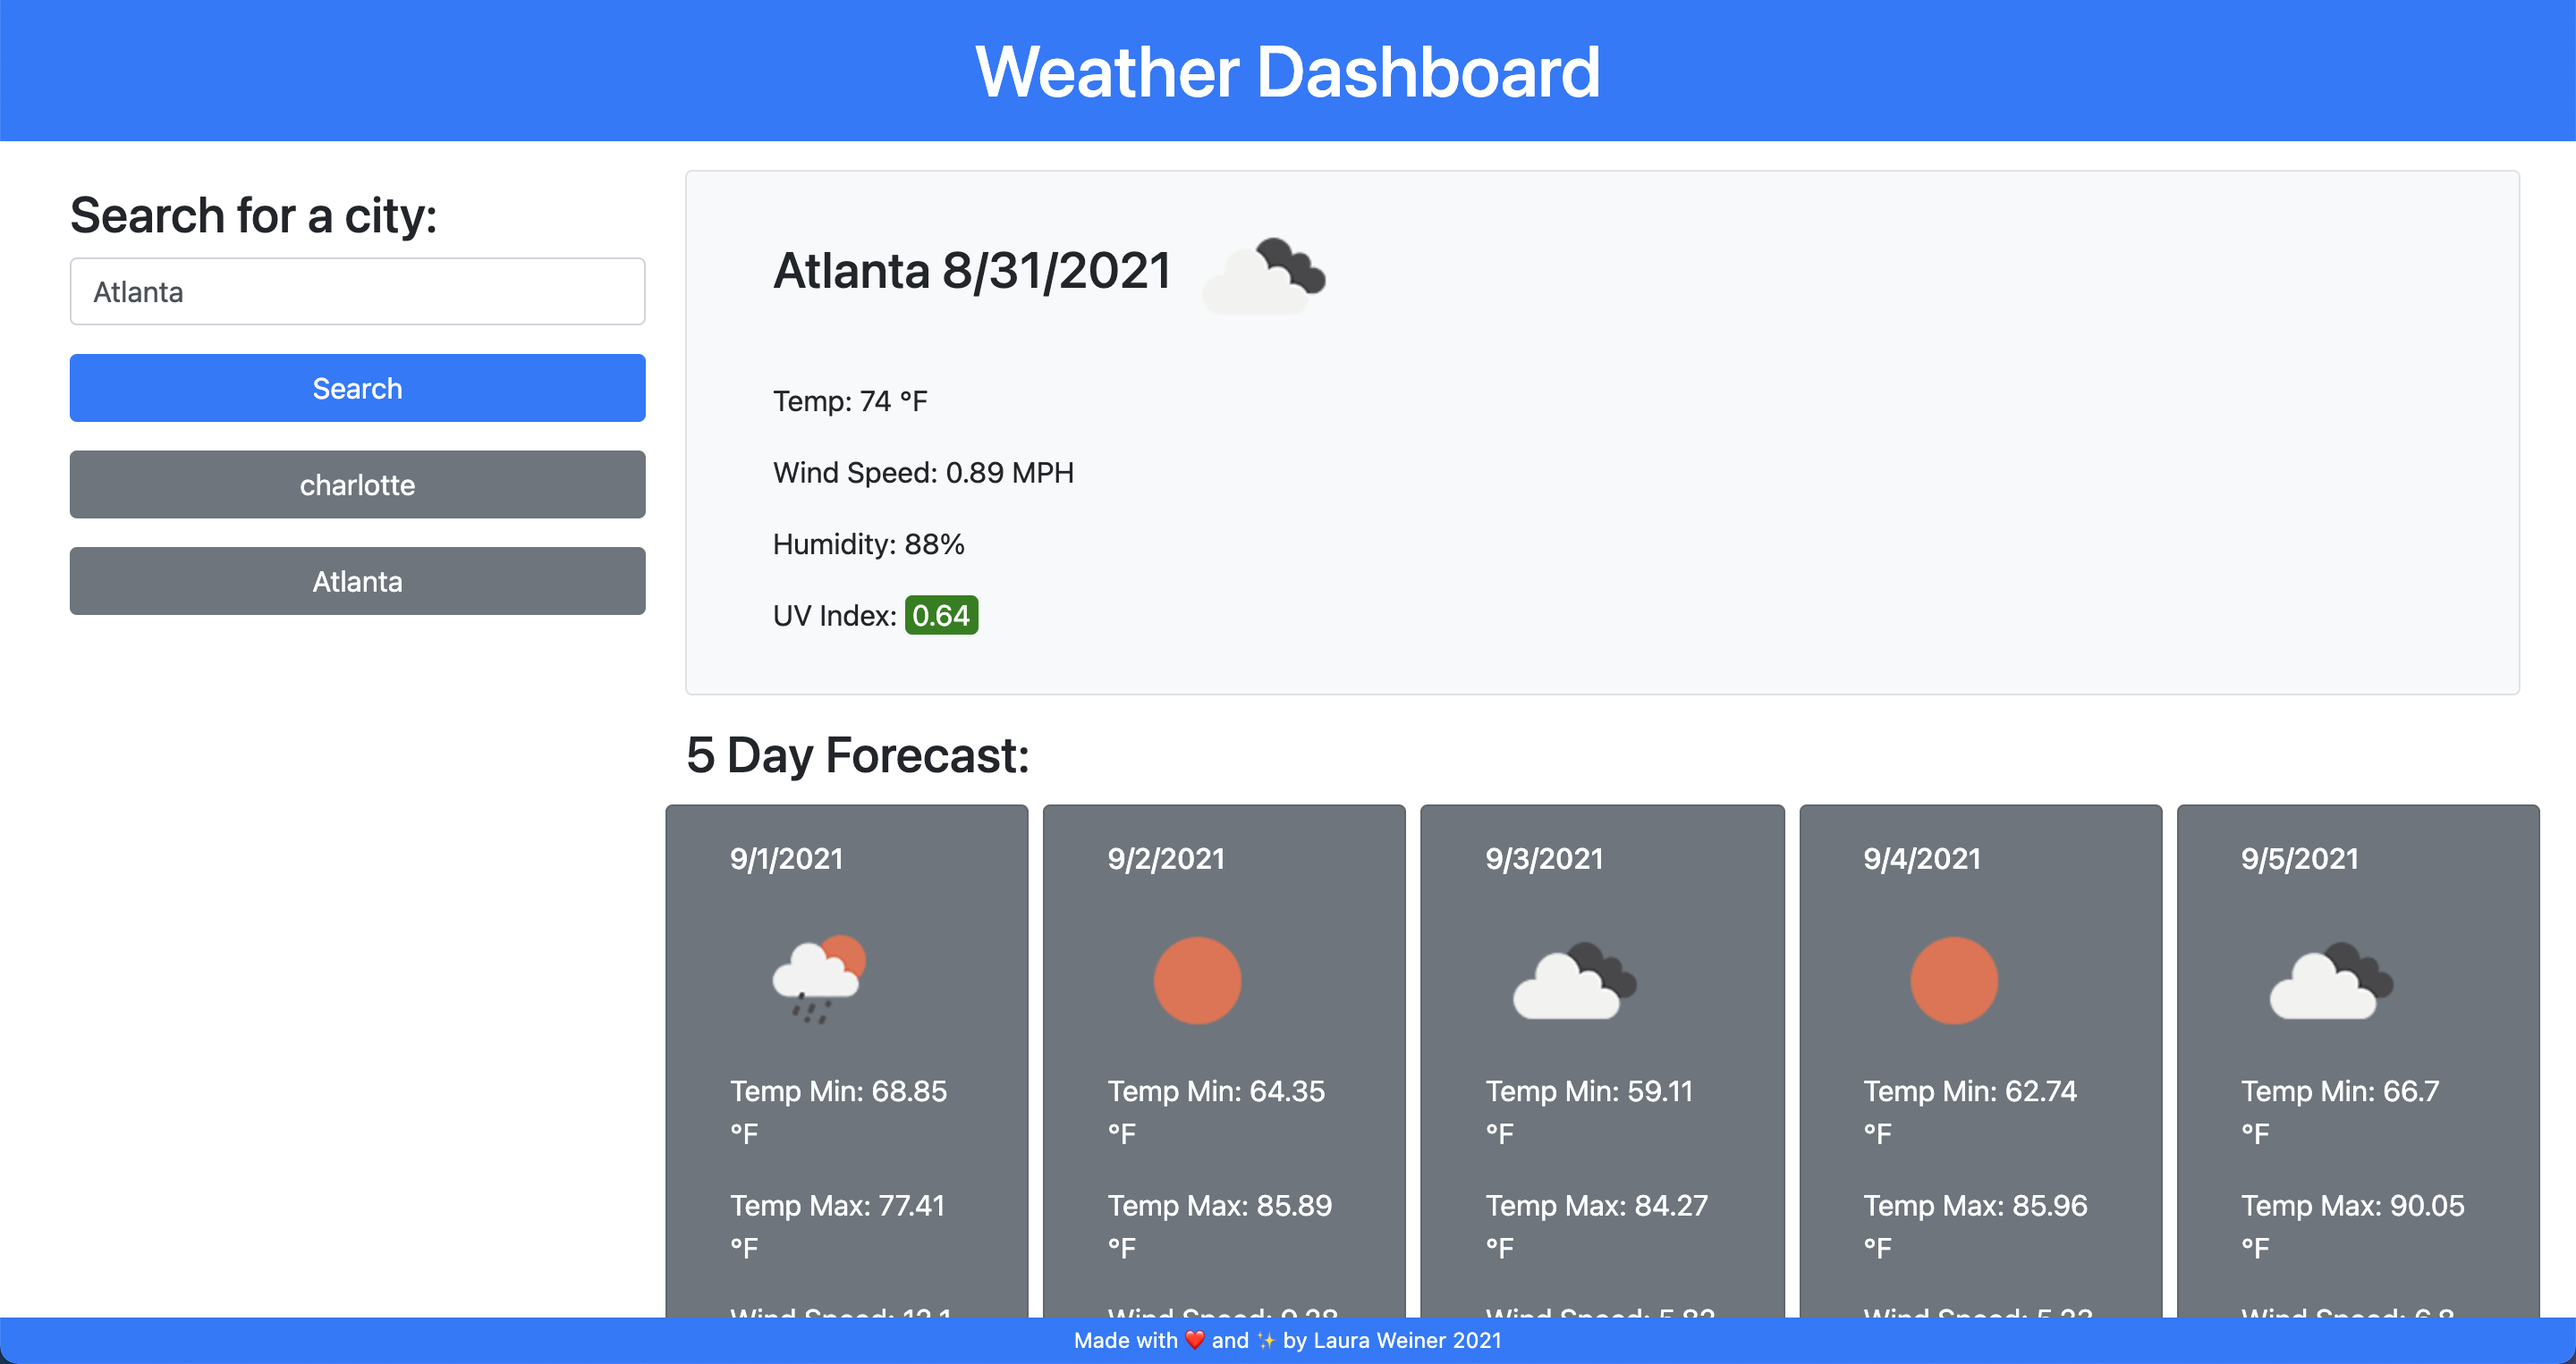
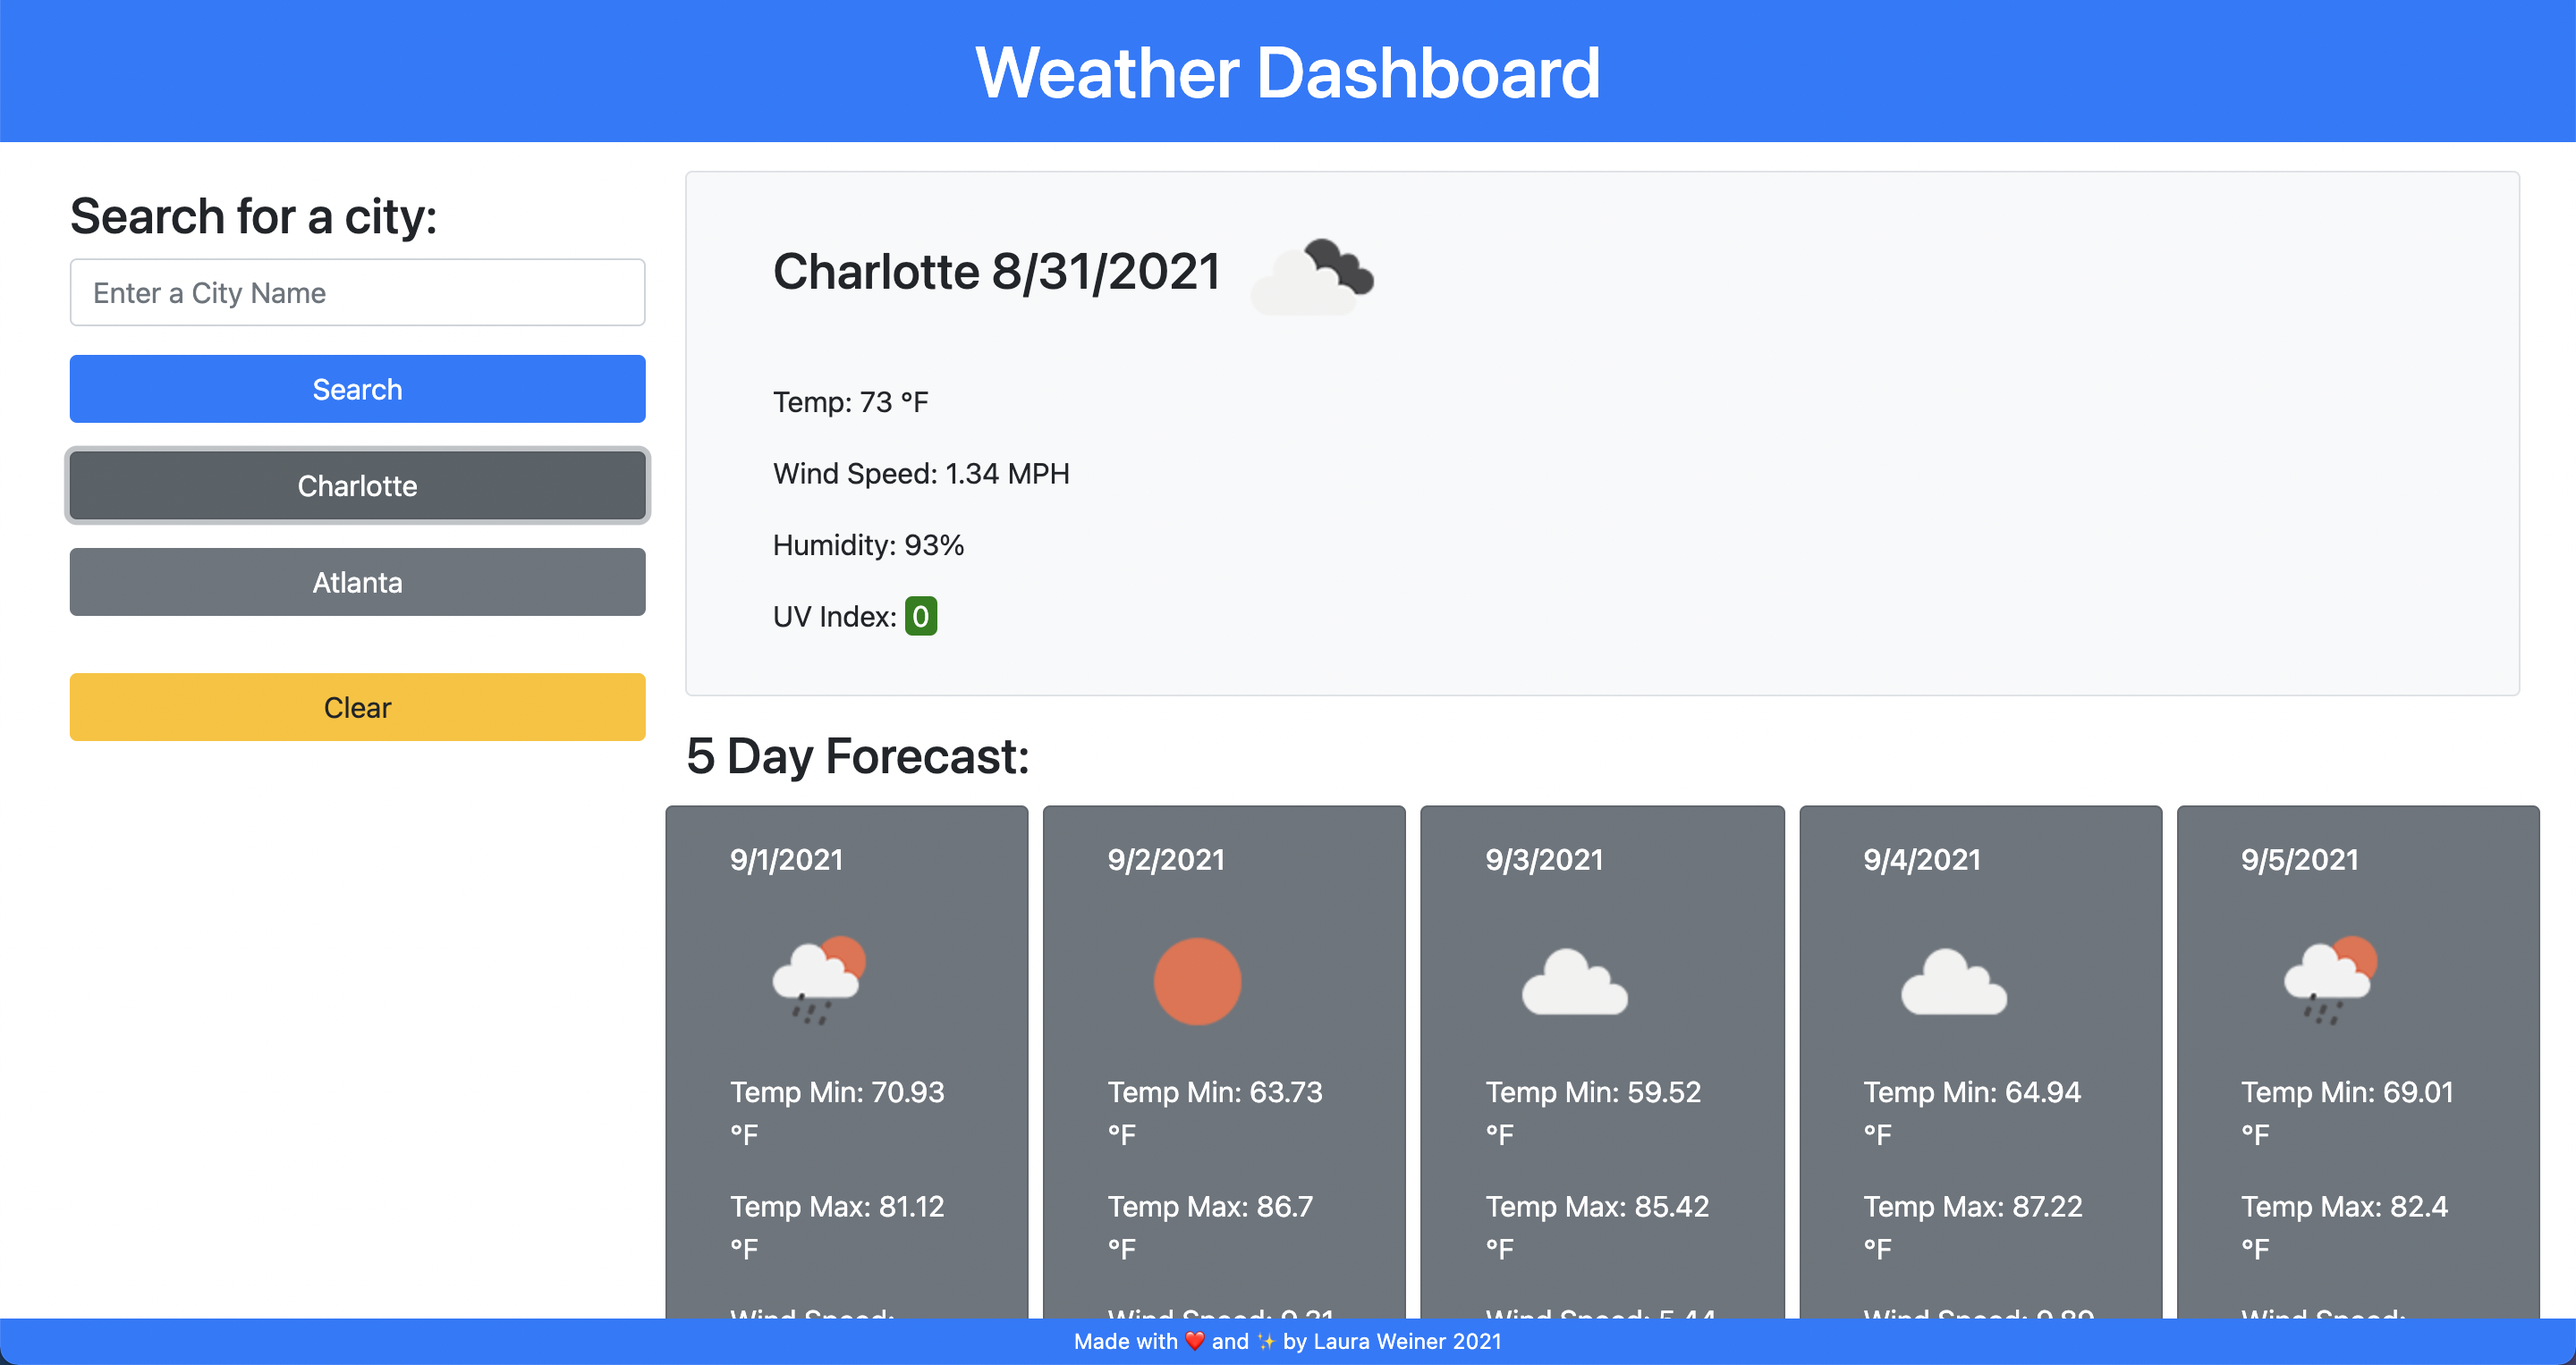
Created localStoarge function that allows recent search buttons to run new forecast. Updated README image.

diff --git a/assets/js/script.js b/assets/js/script.js
@@ -8,12 +8,27 @@ var currentWind = document.getElementById("currentWind");
 var currentHum = document.getElementById("currentHum");
 var currentUV = document.getElementById("currentUV");
 var fiveDay = document.querySelectorAll(".fiveDay");
-var recentHistory = JSON.parse(localStorage.getItem("search")) || [];
+var lastSearch;
 
-function forcast() {
+if (localStorage.getItem("search")){
+    lastSearch = localStorage.getItem("search").split(",")
+} else {
+    lastSearch=[];
+}
+
+function forcast(cityName) {
+    
     var cityName = searchedCity.value.trim();
     var currentURL = "https://api.openweathermap.org/data/2.5/weather?q=" + cityName + "&appid=" + APIKey;
    
+    localStorage.setItem("search", lastSearch);
+    console.log(lastSearch);
+
+    if(!lastSearch.includes(cityName)) {
+        lastSearch.push(cityName);
+    }
+    
+    
     var buttonEl = document.createElement("button");
     buttonEl.textContent = cityName;
     buttonEl.setAttribute("class", "btn btn-secondary w-100 m-2");
@@ -69,12 +84,13 @@ function forcast() {
             
             for (var i=0; i<5; i++) {
                 var day = dailyData[i];
+                console.log(fiveDay[i]);
 
+                var dateEl = document.createElement("h6");
                 var newDate = new Date(day.dt*1000);
                 var month = newDate.getMonth()+1;
                 var weekDay = newDate.getDate();
                 var year = newDate.getFullYear();
-                var dateEl = document.createElement("h6");
                 dateEl.textContent = month + "/" + weekDay + "/" + year;
                 fiveDay[i].appendChild(dateEl);
 
@@ -84,7 +100,7 @@ function forcast() {
                 fiveDay[i].appendChild(iconEl);
                 
                 var tempMinEl = document.createElement("p");
-                tempMinEl.textContent = "Temp Min: " + day.temp.min + " °F";
+                tempMinEl.textContent = "Temp Min: " + day.temp.min + " °F"
                 fiveDay[i].appendChild(tempMinEl);
 
                 var tempMaxEl = document.createElement("p");
@@ -99,13 +115,130 @@ function forcast() {
                 humEl.textContent = "Wind Speed: " + day.humidity + "%";
                 fiveDay[i].appendChild(humEl);
             }
-
+            
         });
     });
-
+    
 }
+
+// function clearFiveDay(){
+//     while (fiveDay.dateEl) {
+//         fiveDay.removeChild(dateEl);
+// }}
 
 searchBtn.addEventListener("click", function (event) {
     event.preventDefault();
     forcast();
+
 });
+
+recentSearch.addEventListener("click", function(event){
+    event.preventDefault();
+    
+    var cityName = event.target.innerText;
+
+    if(!lastSearch.includes(cityName)) {
+        lastSearch.push(cityName);
+    }
+
+    var currentURL = "https://api.openweathermap.org/data/2.5/weather?q=" + cityName + "&appid=" + APIKey;
+   
+    localStorage.setItem("search", lastSearch);
+    console.log(lastSearch);
+    
+    fetch(currentURL)
+    .then(function (response) {
+        return response.json();
+    })
+    .then(function (data) {
+
+        var currentDate = new Date(data.dt*1000);
+        var currentMonth = currentDate.getMonth()+1;
+        var currentDay = currentDate.getDate();
+        var currentYear = currentDate.getFullYear();
+        var currentPic = document.createElement("img");
+        var currentFTemp = Math.floor(((data.main.temp - 273.15) * 9 / 5) + 32);
+        
+        cityMain.textContent = data.name + " " + currentMonth + "/" + currentDay + "/" + currentYear;
+        currentPic.alt = data.weather[0].icon;
+        currentPic.src = "http://openweathermap.org/img/wn/" + data.weather[0].icon + "@2x.png";
+        cityMain.appendChild(currentPic);
+        
+        currentTemp.textContent = "Temp: " + currentFTemp + " °F"
+        currentWind.textContent = "Wind Speed: " + data.wind.speed + " MPH";
+        currentHum.textContent = "Humidity: " + data.main.humidity + "%";
+        currentUV.textContent = "UV Index: ";
+        
+        var UVURL = "https://api.openweathermap.org/data/2.5/onecall?lat=" + data.coord.lat + "&lon=" + data.coord.lon + "&appid=" + APIKey + "&units=imperial";
+        
+        fetch(UVURL)
+        .then(function (response) {
+            return response.json();
+        })
+        .then(function (data) {
+            
+            var UVIndex = data.current.uvi;
+            var UVColor = document.createElement('span');
+            UVColor.textContent = UVIndex;
+            if (UVIndex <= 2) {
+                UVColor.classList = "favorable";
+            }
+            else if (UVIndex > 2 && UVIndex <= 8) {
+                UVColor.classList = "moderate";
+            } else {
+                UVColor.classList = "severe";
+            }
+            currentUV.appendChild(UVColor);
+
+            var dailyData = data.daily.slice(1, 6);
+            console.log(dailyData);
+            
+            for (var i=0; i<5; i++) {
+                var day = dailyData[i];
+                console.log(fiveDay[i]);
+
+                var dateEl = document.createElement("h6");
+                var newDate = new Date(day.dt*1000);
+                var month = newDate.getMonth()+1;
+                var weekDay = newDate.getDate();
+                var year = newDate.getFullYear();
+                dateEl.textContent = month + "/" + weekDay + "/" + year;
+                fiveDay[i].appendChild(dateEl);
+
+                var iconEl = document.createElement("img");
+                iconEl.alt = day.weather[0].icon;
+                iconEl.src = "http://openweathermap.org/img/wn/" + day.weather[0].icon + "@2x.png";
+                fiveDay[i].appendChild(iconEl);
+                
+                var tempMinEl = document.createElement("p");
+                tempMinEl.textContent = "Temp Min: " + day.temp.min + " °F"
+                fiveDay[i].appendChild(tempMinEl);
+
+                var tempMaxEl = document.createElement("p");
+                tempMaxEl.textContent = "Temp Max: " + day.temp.max + " °F";
+                fiveDay[i].appendChild(tempMaxEl);
+
+                var windEl= document.createElement("p");
+                windEl.textContent = "Wind Speed: " + day.wind_speed + " MPH";
+                fiveDay[i].appendChild(windEl);
+
+                var humEl = document.createElement("p");
+                humEl.textContent = "Wind Speed: " + day.humidity + "%";
+                fiveDay[i].appendChild(humEl);
+            }
+            
+        });
+    });
+    
+});
+
+function clear() {
+    document.querySelector("5day").remove();
+}
+
+console.log(fiveDay[i]);
+
+clearBtn.addEventListener("click", function(event){
+    event.preventDefault
+    clear();
+})

diff --git a/index.html b/index.html
@@ -25,6 +25,9 @@
         <div>
           <ul id="recentSearch"></ul>
         </div>
+        <form>
+          <button type="click" class="btn btn-warning w-100 m-2" id="clearBtn">Clear</button>
+        </form>
     </div>
 
     <div class="col-md-9">
@@ -39,7 +42,7 @@
       </div>
 
       <h3 class="mt-3">5 Day Forecast:</h3>
-        <div class="row">
+        <div class="row 5day">
           <div class="card m-1 bg-secondary text-white col" style="width: 12rem;">
             <div class="card-body fiveDay"></div>
           </div>

diff --git a/README.md b/README.md
@@ -1,4 +1,4 @@
-# weather-dashboard
+# Weather Dashboard
 
 [Link to finished website](https://lweine01.github.io/weather-dashboard/)
 
@@ -17,7 +17,7 @@ In this application a user is able to search for a city's forecast. The page wil
 
 
 ## Usage
-Used to find forecast by city.
+Used to find weather forecast by city.
 
 ## Language
 HTML, CSS, and Javascript
